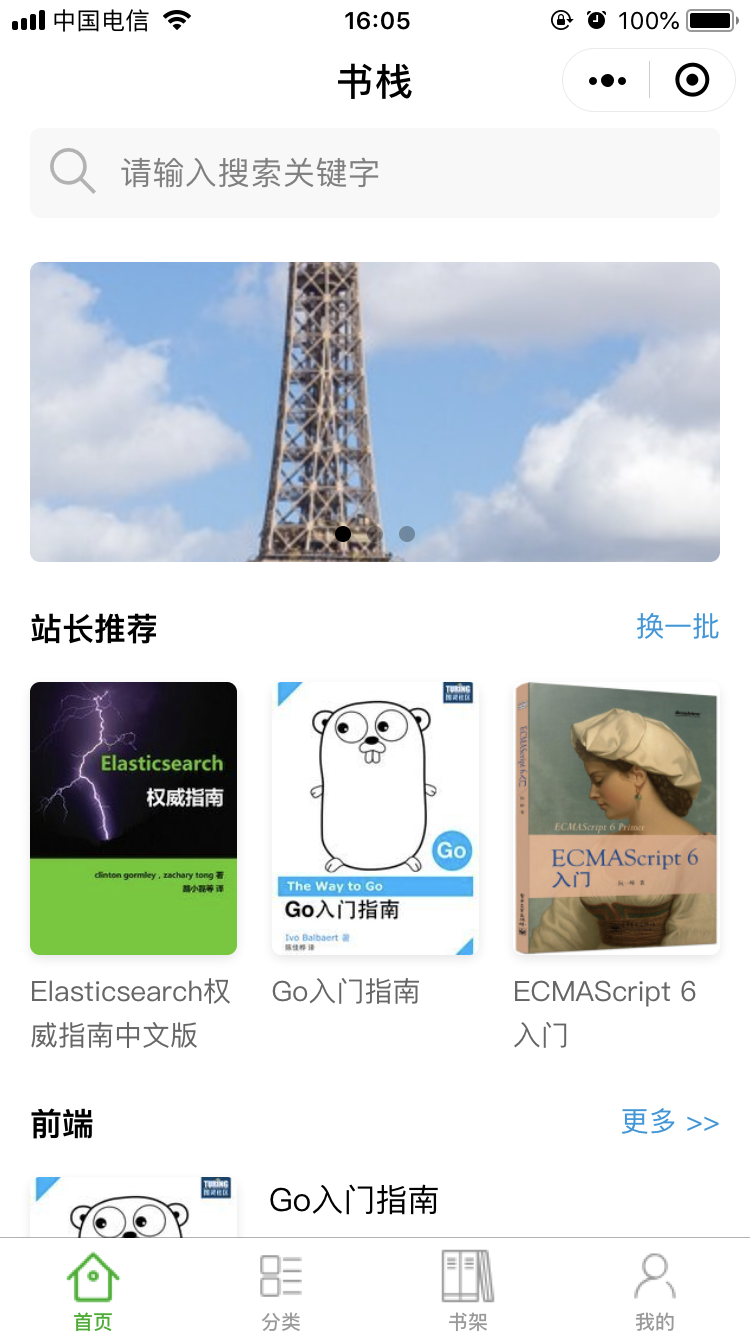
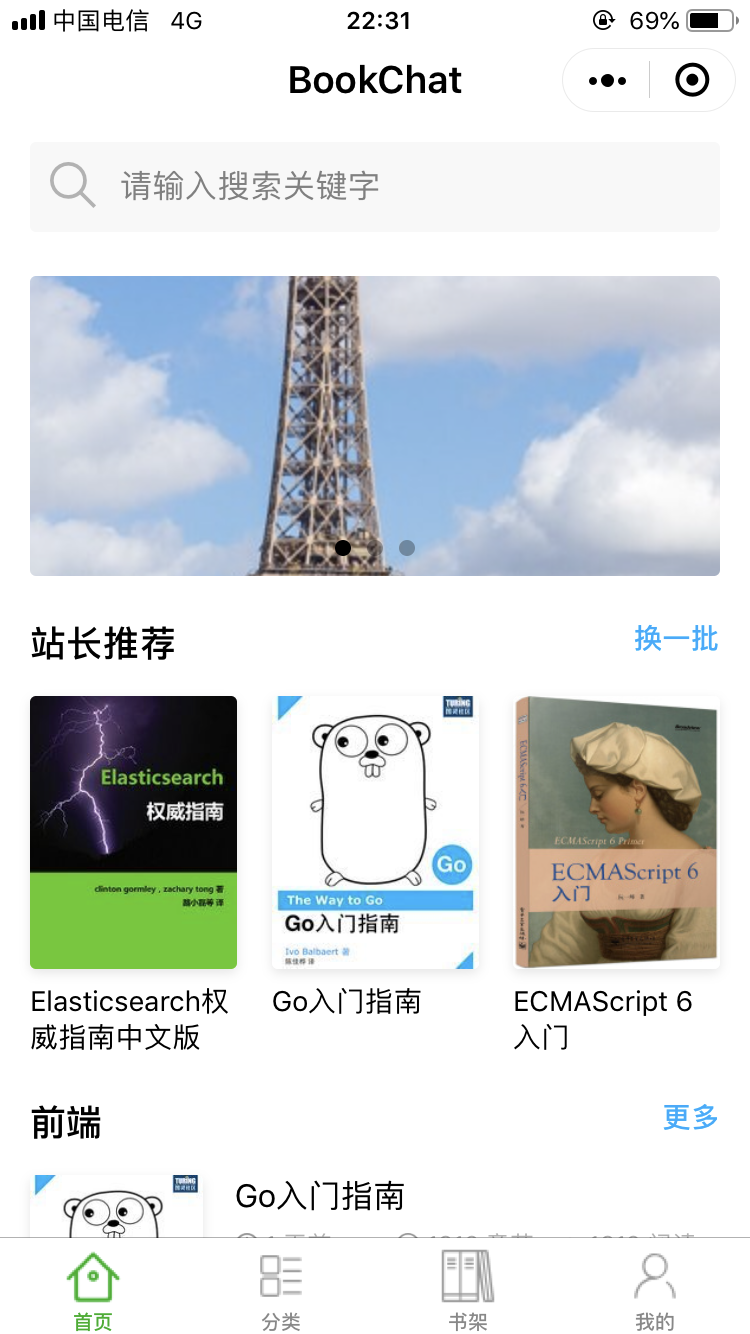
截图、READEME修改

diff --git a/README.md b/README.md
@@ -1,23 +1,37 @@
 # 书籍阅读微信小程序
 
 ## 项目介绍
-`BookStackWechat` - 书籍阅读微信小程序，不仅仅是[BookStack](https://gitee.com/TruthHun/BookStack)的配套小程序。
 
-起初仅仅是想作为[BookStack](https://github.com/TruthHun/BookStack)的配套小程序，但是后来想了一下，小说书籍和文档阅读类的小程序，不外乎也就是那些功能，所以`BookStackWechat`会开发成为通用的书籍阅读类小程序。
+微信叫`WeChat`，所以我们叫`BookChat`.
 
-由于 [DocHub](https://gitee.com/TruthHun/DocHub) 文库项目的开源，小程序的开发，暂停了一段时间，目前只开发实现了部分页面，当前更多页面还在继续开发中，源码届时会以 Apache 2.0 开源协议进行开源。在放出源码之前，你可以先对当前项目进行`star`和`watch`，以关注项目动态。
+`BookChat` - 基于 Apache 2.0 开源协议进行开源的通用书籍阅读微信小程序.
+
 
-小程序采用CSS3的`flex`实现页面布局，预计会迭代发布三个版本：
+起初仅仅是想作为[BookStack](https://github.com/TruthHun/BookStack)的配套小程序，但是后来想了一下，小说书籍和文档阅读类的小程序，不外乎也就是那些功能，所以把`BookChat`开发为通用的书籍阅读类小程序，以方便更多想要开发阅读类小程序的个人和企业。
 
-- 第一个版本： 纯模板页面，实现页面间的链接跳转
+小程序可能还有一些设计的不是很合理的地方，所以您在使用的过程中，遇到问题或者有更perfect的想法，请提交issues，让我们携手将小程序做的尽善尽美。
 
-- 第二个版本： 约定所有API接口，请求动态数据
 
-- 第三个版本： 套接`BookStack`的API接口，实现真正意义上的书籍阅读（届时会提前发布`BookStack` v2.x版本）
 
-## 页面预览
+## 开发设计
 
-由于没有原型，小程序的功能布局和页面布局，主要借(抄)鉴(袭)了3个手机APP，所以，请允许我免费给他们打个小广告：
+小程序采用CSS3的`flex`实现的页面布局，文字大小和主题配色参照了腾讯官方的[微信小程序设计指南](https://developers.weixin.qq.com/miniprogram/design/index.html)。
+
+由于没有人帮设计小图标，`BookChat`小程序中的各类小图标，基本上都是从[iconfont](http://iconfont.cn)找的，所以非常感谢热心的设计师们把自己精心设计的小图标分享出来.
+
+小程序的源码，放在`src`目录下.
+
+`BookChat`小程序，预计会迭代发布三个版本：
+
+- [x] 第一个版本： 纯模板页面，实现页面间的链接跳转
+
+- [ ] 第二个版本： 使用 [YAPI](https://github.com/YMFE/yapi) 约定所有API接口，请求动态数据
+
+- [ ] 第三个版本： 套接`BookStack`的API接口，实现真正意义上的书籍阅读（届时会提前发布`BookStack` v2.x版本）
+
+目前实现了第一个版本.
+
+由于没有原型，小程序的功能和页面布局，主要借(抄)鉴(袭)了3个手机APP，所以，请允许我免费给他们打个小广告：
 
 - [iReader](http://www.zhangyue.com/) - 引领品质阅读
 - [微信读书](http://weread.qq.com/) - 让阅读不再孤独
@@ -27,14 +41,30 @@
 
 好吧，他们都有一个响亮的Slogan，那么我们也要有一个：
 
-> 书栈阅读 - 让阅读，成为一种本能
+> `BookChat` - 让阅读，成为一种本能
 
--------
+----------
 
-页面一览：
+**QQ交流群**
+
+> 457803862（猿军团）
+
+加群请备注`来自BookChat`
+
+> 说明：该群是一个技术交流群。如果是开源程序遇到问题，请直接提交issues，群里不解答问题.
+
+
+## 小程序体验
+
+目前`BookChat`是第一个版本，只是一个模板小程序，实现了页面间的链接跳转。您可以在微信上通过关键字`BookChat`搜索并体验该小程序，或者直接扫描下方的二维码进行体验。
+
+![](screenshot/qrcode.jpg)
+
+
+## 页面预览
+
 
 ### 首页
-
 
 <img width="480" style="border:1px solid #ccc" src="screenshot/index1.png"/>
 
@@ -42,7 +72,7 @@
 <br/>
 <br/>
 
-<img width="480" style="border:1px solid #ccc"  src="screenshot/index2.png"/>
+<img width="480" style="border:1px solid #ccc"  src="screenshot/index.png"/>
 
 <br/>
 <br/>
@@ -55,6 +85,18 @@
 
 
 <img width="480" style="border:1px solid #ccc"  src="screenshot/cate.png"/>
+
+
+<br/>
+<br/>
+<br/>
+<br/>
+<br/>
+<br/>
+
+### 分类书籍列表
+
+<img width="480" style="border:1px solid #ccc"  src="screenshot/list.png"/>
 
 
 <br/>
@@ -77,10 +119,75 @@
 <br/>
 <br/>
 
-### 用户中心
+### 个人中心
 
 <img width="480" style="border:1px solid #ccc"  src="screenshot/me.png"/>
 
 
+### 书籍介绍
+
+<img width="480" style="border:1px solid #ccc"  src="screenshot/intro.png"/>
+<br/>
+<br/>
+<br/>
+
+### 书籍目录
+
+<img width="480" style="border:1px solid #ccc"  src="screenshot/menu.png"/>
+<br/>
+<br/>
+<br/>
+
+### 书籍阅读
+
+<img width="480" style="border:1px solid #ccc"  src="screenshot/read.png"/>
+<br/>
+<br/>
+<br/>
 
 
+### 注册、登录
+
+
+<img width="480" style="border:1px solid #ccc"  src="screenshot/reg.png"/>
+
+
+<br/>
+<br/>
+
+<img width="480" style="border:1px solid #ccc"  src="screenshot/login.png"/>
+
+
+<br/>
+<br/>
+<br/>
+
+
+### 书籍点评
+
+<img width="480" style="border:1px solid #ccc"  src="screenshot/comment.png"/>
+<br/>
+<br/>
+<br/>
+
+### 书籍搜索结果
+
+<img width="480" style="border:1px solid #ccc"  src="screenshot/search.png"/>
+<br/>
+<br/>
+<br/>
+
+
+
+## 赞助
+
+  如果您觉得`BookChat`帮助到了您，可以通过扫描下方二维码在您力所能及的范围内给我们小小的赞助，以支持和鼓励`BookChat`开源项目.
+
+
+### 支付宝
+![](screenshot/alipay.jpg)
+
+
+
+### 微信
+![](screenshot/wxpay.jpg)
